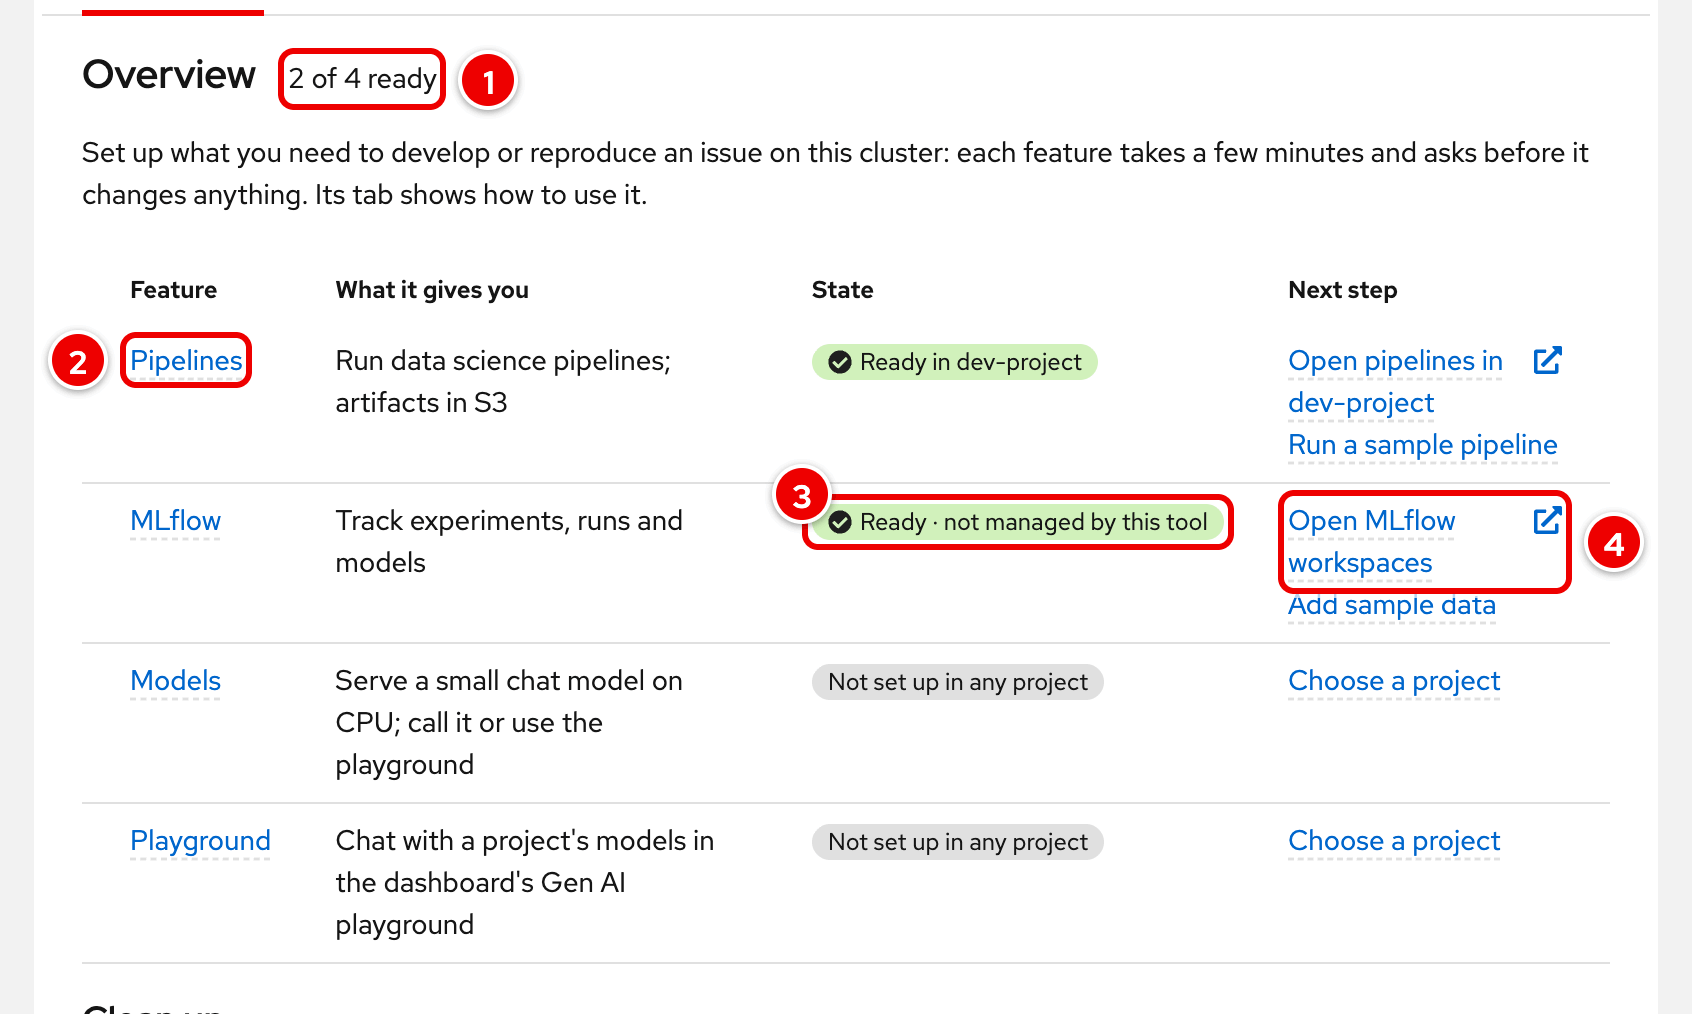
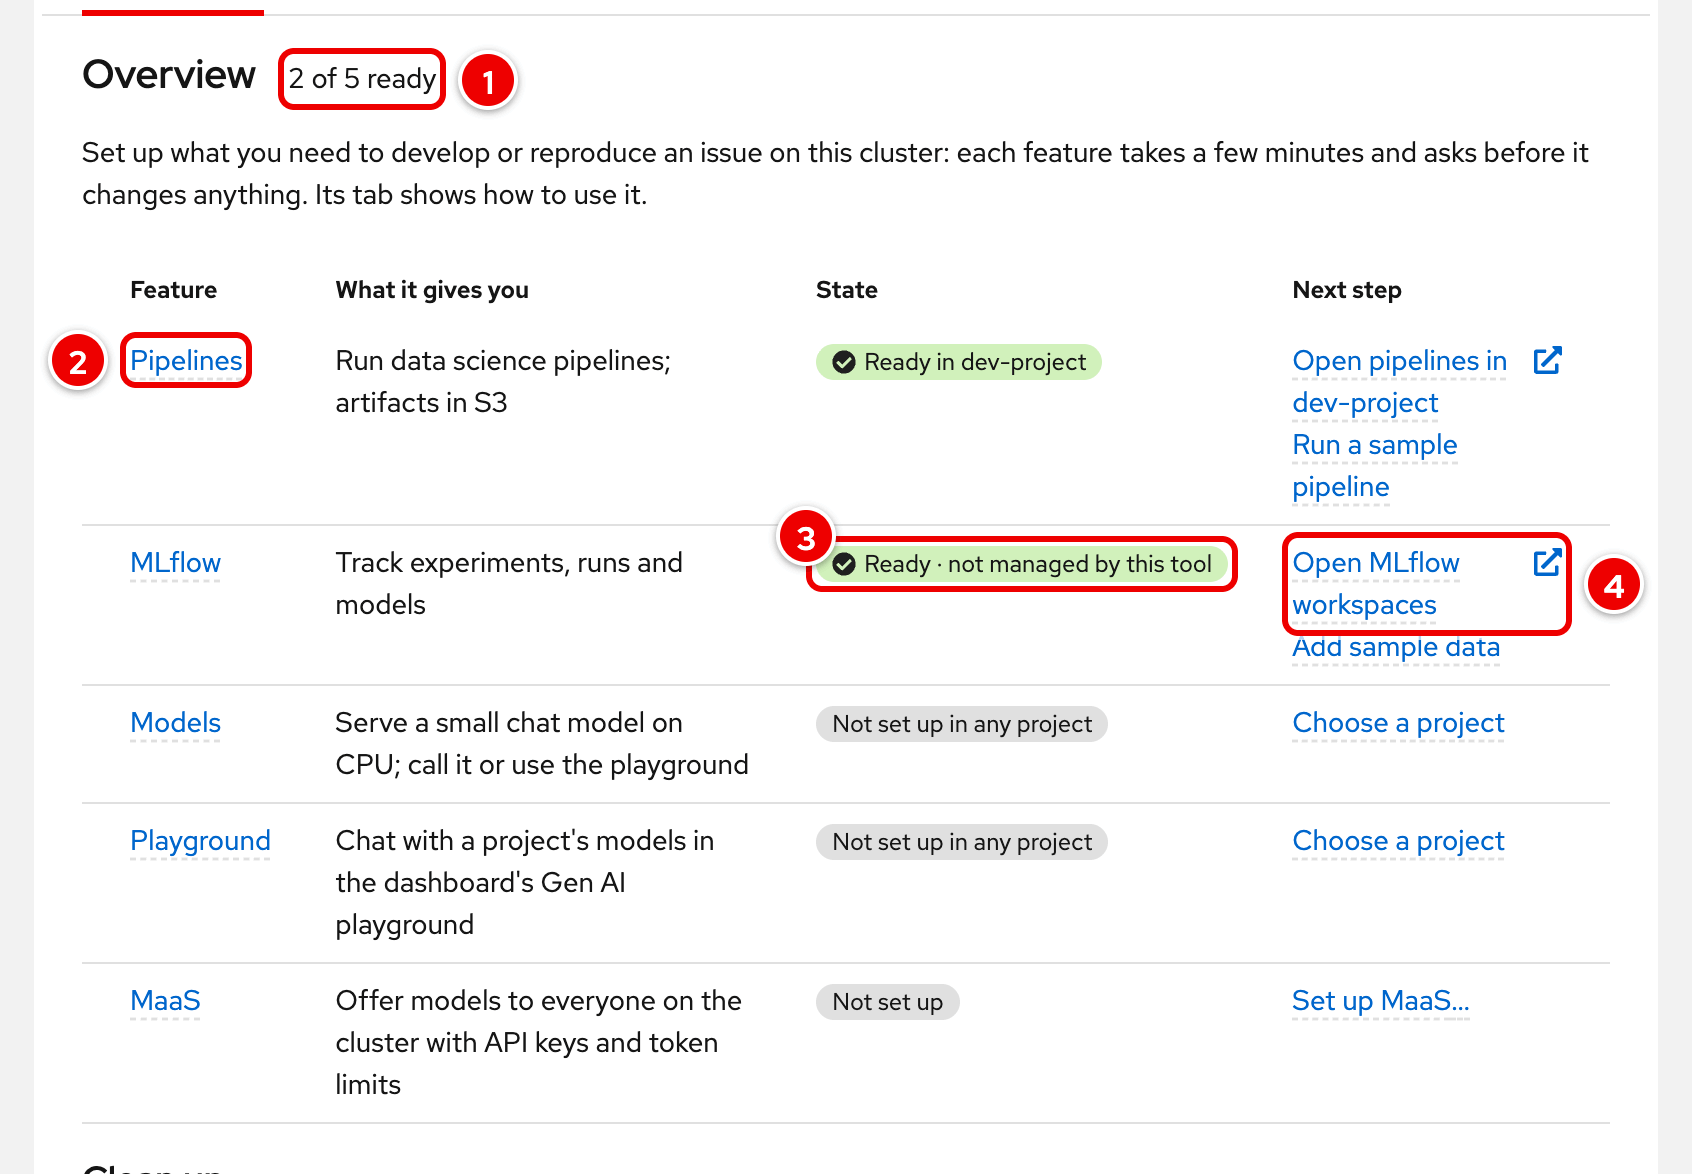
MaaS: docs, mock states and docs images
CLUSTER_CHANGES lists every object per documented step and what Remove
keeps; RUNBOOK 10.4 has checks, symptoms and a manual rollback; the
README has the MaaS tab. The mock serves every MaaS state (not set up,
blocked, no CloudNativePG, starting, Authorino TLS missing, ready,
publishing, published, someone else's, no model) and the MaaS stream;
screenshots.sh maas-review captures them light and dark. New image
environment-maas; environment-overview gains the MaaS row.

diff --git a/docs/tools/capture.js b/docs/tools/capture.js
@@ -246,6 +246,21 @@ async (page) => {
       }
     },
 
+    // Not a docs image: the MaaS tab in every state, light and dark, to
+    // check it by eye (screenshots.sh maas-review, THEMES_DIR).
+    async "maas-review"() {
+      for (const st of ["none", "blocked", "no-cnpg", "starting", "tls", "ready", "publishing", "published", "foreign", "no-model"]) {
+        for (const dark of [false, true]) {
+          await open("/test-resources?tab=maas", `env-maas-${st}`, { dark, width: 1440 });
+          await fit();
+          await page.screenshot({ path: `${out}/themes/maas-${st}-${dark ? "dark" : "light"}.png` });
+        }
+      }
+      await open("/test-resources", "env-maas-published");
+      await fit();
+      await page.screenshot({ path: `${out}/themes/maas-overview-light.png` });
+    },
+
     // Not a docs image: the Playground tab in every state, light and dark,
     // to check it by eye (screenshots.sh playground-review, THEMES_DIR).
     async "playground-review"() {
@@ -466,6 +481,17 @@ async (page) => {
         notes: [
           { at: broken.getByText("The cluster preset's image is not published yet"), n: 1, pos: "r" },
           { at: broken.getByRole("button", { name: "Use the newest released Red Hat image" }), n: 2, pos: "r" },
+        ],
+        pad: 24,
+      });
+
+      // MaaS: the platform's parts, and this tool's model published.
+      await open("/test-resources?tab=maas", "env-maas-published");
+      await crop("environment-maas", [panel().getByRole("heading", { name: "MaaS", level: 2 }), panel().getByRole("grid", { name: "This tool's models in MaaS" })], {
+        notes: [
+          { at: part("Database (PostgreSQL) and maas-db-config"), n: 1, pos: "r" },
+          { at: part("Authorino TLS"), n: 2, pos: "r" },
+          { at: panel().getByRole("button", { name: "Unpublish" }), n: 3, pos: "l" },
         ],
         pad: 24,
       });

diff --git a/docs/CLUSTER_CHANGES.md b/docs/CLUSTER_CHANGES.md
@@ -200,6 +200,24 @@ One streamed operation, `POST /api/resources/playground/stream`. The tool writes
 
 A playground the tool did not request (made in the dashboard) is shown as **Not managed by this tool** and never deleted. ConfigMaps an earlier playground left without its server make the dashboard's install answer 400 "already exists": the tool explains which and how to remove them, and does not delete them.
 
+### MaaS: Models as a Service (cluster) and this tool's published model
+
+One streamed operation, `POST /api/resources/maas/stream` (`setup`, `teardown`, `publish`, `unpublish`), in the order of the MaaS install docs (`opendatahub-io/models-as-a-service` `docs/content/install`, and `scripts/setup-gateway.sh`, `setup-database.sh`, `setup-authorino-tls.sh`). The infrastructure namespace is the default tenant's `status.infraNamespace`, else derived from the applications namespace as the scripts do (`redhat-ods-applications` → `redhat-ai-gateway-infra`, `opendatahub` → `odh-ai-gateway-infra`). Every object below carries `app.kubernetes.io/managed-by=rhoai-nightly-updater`, is written with field manager `rhoai-nightly-updater` and deleted with a UID precondition; one of the same name the tool did not create is used as it is (or refused) and never changed or deleted.
+
+| Step | What the tool does |
+|---|---|
+| Checks (nothing written on a refusal) | DataScienceCluster `aigateway` Managed; a Kuadrant CR exists (Connectivity Link; never created or changed); the infrastructure namespace exists; CRD group `postgresql.cnpg.io/v1` served (unless a `maas-db-config` someone else made exists); then a server-side dry run of every write. The Connectivity Link CSV version is read for a warning below 1.5 |
+| 1. Database (`maas-setup.md` "Database Setup") | `postgresql.cnpg.io/v1` Cluster `<infra>/maas-db`: `instances: 1`, `storage.size: 1Gi`, `bootstrap.initdb: {database: maas, owner: maas}`; waits up to 5 minutes for a ready instance. Then Secret `<infra>/maas-db-config` (labels also `app=maas-api`), key `DB_CONNECTION_URL` = `postgresql://<user>:<password>@maas-db-rw.<infra>.svc.cluster.local:5432/maas?sslmode=require`, built from CloudNativePG's Secret `maas-db-app` (read by name; never logged or returned) |
+| 2. Gateway (`setup-gateway.sh`, loadbalancer mode) | GatewayClass `openshift-default` (`controllerName: openshift.io/gateway-controller/v1`) only when the cluster has none; never changed or deleted. Gateway `openshift-ingress/maas-default-gateway`: labels `app.kubernetes.io/name=maas`, `instance=maas-default-gateway`, `component=gateway`, `opendatahub.io/managed=false`; annotations `opendatahub.io/managed: "false"`, `security.opendatahub.io/authorino-tls-bootstrap: "true"`; one listener `https`, port 443, hostname `maas.<apps domain>`, TLS Terminate with the default ingress certificate (the IngressController's `spec.defaultCertificate`, else `router-certs-default`; only named), `allowedRoutes` Selector `kubernetes.io/metadata.name In [<infra>, models-as-a-service, <published projects>]` (the script's `ALLOWED_ROUTE_NAMESPACES`). Waits up to 2 minutes for Programmed, then for the DNS record |
+| 3. Authorino TLS (`setup-authorino-tls.sh`) | Read only: the Service `authorino-authorino-authorization` annotation, the Authorino CR's `spec.listener.tls.enabled`, the Deployment's `SSL_CERT_FILE`, in the Kuadrant CR's namespace. When one is missing, the tab shows the script's commands for a cluster-admin |
+| 4. DataScienceCluster | Records the current `aigateway.modelsAsAService.managementState` (snapshot ConfigMap, data key `maas`, field manager `rhoai-nightly-updater-maas-record`), then sets it to `Managed` |
+| 5. Validation | Waits up to 5 minutes for Deployment `<infra>/maas-api` Available, AITenant `ai-tenants/models-as-a-service` Ready and the AuthPolicy on the gateway (found by its target) Enforced; still starting at the bound is not a failure |
+| Publish (`model-setup.md` "Update Existing Models") | Adds the project to the gateway's `allowedRoutes`; adds `spec.router.gateway.refs: [{name: maas-default-gateway, namespace: openshift-ingress}]` to LLMInferenceService `<project>/qwen25-05b-instruct` as field manager `rhoai-nightly-updater-maas` (only that field); MaaSModelRef `<project>/qwen25-05b-instruct` (`modelRef: {kind: LLMInferenceService, name: qwen25-05b-instruct}`); in `models-as-a-service`, MaaSSubscription `rhoai-nightly-updater-subscription` (owner group `system:authenticated`, `tokenRateLimits: [{limit: 100, window: 1m}]` per model, priority 10) and MaaSAuthPolicy `rhoai-nightly-updater-access` (subjects group `system:authenticated`), listing every published project. Waits for the reference Ready and both Active |
+| Unpublish | Reverse: the project leaves the access policy and subscription (deleted when empty), the MaaSModelRef is deleted (waits for its finalizer), the model's gateway ref is removed (field manager `rhoai-nightly-updater-maas` applies nothing), the project leaves the gateway's `allowedRoutes`. The Models teardown refuses while the model is published |
+| Remove | Unpublish every published model; set `modelsAsAService` back to the recorded value (only if this tool changed it; refused when someone else turned MaaS on and it uses the tool's gateway or database); delete the Gateway, then Secret `maas-db-config`, then the CloudNativePG Cluster (with its volume) |
+
+Kept by Remove: GatewayClass `openshift-default`, Connectivity Link and Authorino, the CloudNativePG operator, the namespaces RHOAI's operator generated (`<infra>`, `ai-tenants`, `models-as-a-service`) and what the operator made in them (`Config/default`, the AITenant, MaasTenantConfig, maas-api), and every MaaS object someone else made.
+
 ## 9. What the tool never does
 
 - Delete a namespace (other than `make undeploy` deleting its own).

diff --git a/RUNBOOK.md b/RUNBOOK.md
@@ -391,6 +391,33 @@ curl -s -X POST "https://rh-ai.<apps domain>/gen-ai/api/v1/lsd/responses?namespa
 
 Rollback: **Delete** in the playground's menu (or **Clean up Playground**). By hand, the dashboard's way: `oc delete ogxserver lsd-genai-playground -n <project>`, then the `genai-pgvector*` objects (`oc delete deploy,svc,networkpolicy,pvc,secret,configmap -n <project> -l gen-ai.opendatahub.io/pgvector=true`), then remove `<project>` from the `playgrounds` key of ConfigMap `rhoai-nightly-updater-snapshot` in the updater's namespace.
 
+### 10.4 MaaS: Models as a Service
+
+The **MaaS** tab sets up the MaaS platform as the MaaS install docs do and publishes this tool's model. Objects and order: [CLUSTER_CHANGES](docs/CLUSTER_CHANGES.md#maas-models-as-a-service-cluster-and-this-tools-published-model).
+
+```bash
+INFRA=redhat-ai-gateway-infra   # odh-ai-gateway-infra on ODH
+oc get dsc -o jsonpath='{.items[0].spec.components.aigateway}'; echo
+oc get clusters.postgresql.cnpg.io maas-db -n $INFRA
+oc get gateway maas-default-gateway -n openshift-ingress
+oc get deploy maas-api -n $INFRA
+oc get aitenant -n ai-tenants; oc get maastenantconfig -n models-as-a-service
+oc get authpolicy -n openshift-ingress
+oc get maasmodelref -A; oc get maassubscription,maasauthpolicy -n models-as-a-service
+```
+
+| Symptom | Cause and fix |
+|---|---|
+| Set up refused: no Kuadrant CR | A cluster-admin installs Red Hat Connectivity Link and creates the Kuadrant CR (MaaS `platform-setup.md`) |
+| Set up refused: CloudNativePG not installed | Install the CloudNativePG operator from OperatorHub, or create Secret `maas-db-config` for your own PostgreSQL |
+| **Authorino TLS** needs attention | Run the commands the part shows (the docs' `setup-authorino-tls.sh`) as a cluster-admin; until then API keys are refused |
+| maas-api restarts | It restarts until the database answers: `oc get cluster maas-db -n $INFRA`, `oc logs deploy/maas-api -n $INFRA --previous` |
+| Gateway not programmed, or `maas.<apps domain>` does not resolve | OpenShift is making the load balancer; `oc get dnsrecords -n openshift-ingress` shows the record |
+| Connectivity Link version warning | The docs ask for RHCL 1.5 (channel `stable-1.5`); 1.4.x can hang callers with two or more subscriptions |
+| Model delete refused: published | Unpublish it on the MaaS tab first |
+
+Rollback: **Remove MaaS** (or Clean up everything). By hand, in order: `oc delete maasauthpolicy rhoai-nightly-updater-access maassubscription rhoai-nightly-updater-subscription -n models-as-a-service`, `oc delete maasmodelref qwen25-05b-instruct -n <project>`, set `aigateway.modelsAsAService` back to the value in data key `maas` of ConfigMap `rhoai-nightly-updater-snapshot`, then `oc delete gateway maas-default-gateway -n openshift-ingress`, `oc delete secret maas-db-config -n $INFRA`, `oc delete cluster.postgresql.cnpg.io maas-db -n $INFRA`, and remove the `maas` key.
+
 ### 10.1 Migrate storage from an earlier version
 
 Versions before 3.0.0 kept the S3 storage in namespace `minio`, behind MinIO-era names. 3.0.0 moves it, with its data, to namespace `seaweedfs`:

diff --git a/README.md b/README.md
@@ -135,6 +135,18 @@ The Playground tab sets up the RHOAI dashboard's Gen AI playground, a chat page 
 1. On a nightly cluster whose preset image is missing from the registry, the model says so in plain words.
 2. **Use the newest released Red Hat image** changes only the model's image.
 
+#### MaaS: Models as a Service
+
+The MaaS tab sets up the cluster's Models as a Service platform the way the [MaaS install docs](https://github.com/opendatahub-io/models-as-a-service/tree/main/docs/content/install) do, and publishes this tool's model to it: everyone signed in to the cluster can then call the model with a MaaS API key, up to 100 tokens a minute.
+
+<img src="docs/images/environment-maas.png" alt="MaaS tab: Ready, 1 model published; the platform's parts with their health, Connectivity Link not managed by this tool with a version warning, and the published model with Unpublish" width="760">
+
+1. **Database**: a one-instance CloudNativePG PostgreSQL for MaaS's API keys, for development and test, and Secret `maas-db-config` with its address. A connection Secret someone else made is used as it is.
+2. **Authorino TLS**: Connectivity Link's Authorino must serve TLS and trust the cluster's service CA. Its operators own it, so this tool only checks it; when it is missing, the part shows the docs' commands for a cluster-admin.
+3. **Publish** / **Unpublish** per model of this tool. A published model's address moves to the MaaS gateway until it is unpublished.
+
+**Set up** runs the docs' steps in their order: the database, Gateway `maas-default-gateway` with an external load balancer at `maas.<apps domain>`, the Authorino check, then MaaS turned on in the DataScienceCluster (the previous value is recorded), then it waits for maas-api and the default tenant, about 5 minutes. Connectivity Link (a Kuadrant CR) and the CloudNativePG operator are prerequisites a cluster-admin installs. **Use it** has the docs' commands to get a key (shown once), list the models and chat, with your own `oc whoami -t` token, and a link to the dashboard's MaaS pages. **Remove MaaS** unpublishes, turns MaaS back to what it was, then deletes the gateway and the database; GatewayClass `openshift-default`, Connectivity Link and what RHOAI's operator made stay. Troubleshooting: [RUNBOOK §10.4](RUNBOOK.md#104-maas-models-as-a-service).
+
 #### Sample data and a sample pipeline
 
 Once MLflow or a pipeline server works, one click shows it working, with no code.
